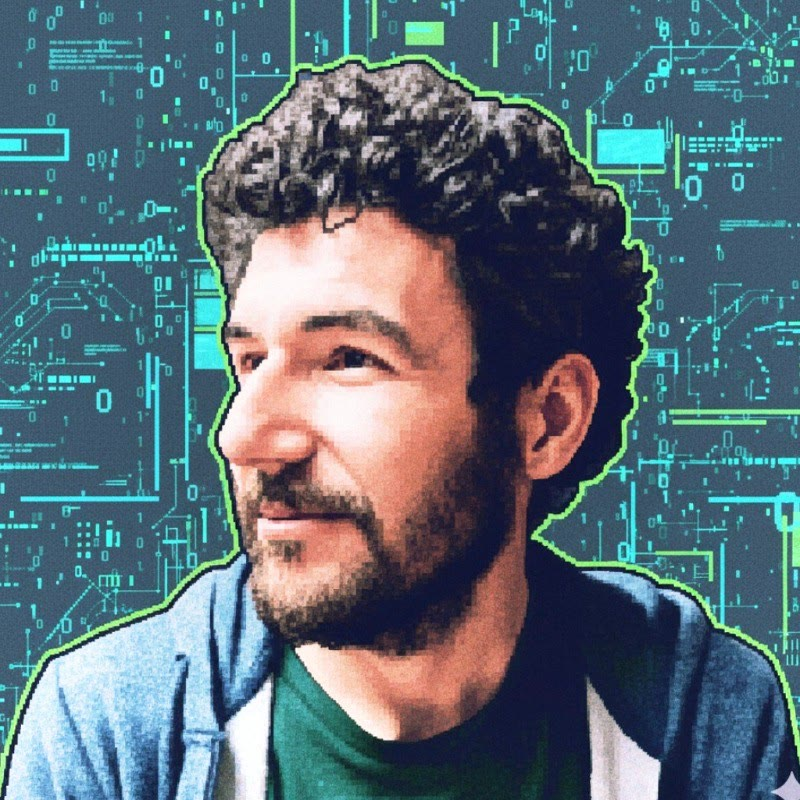
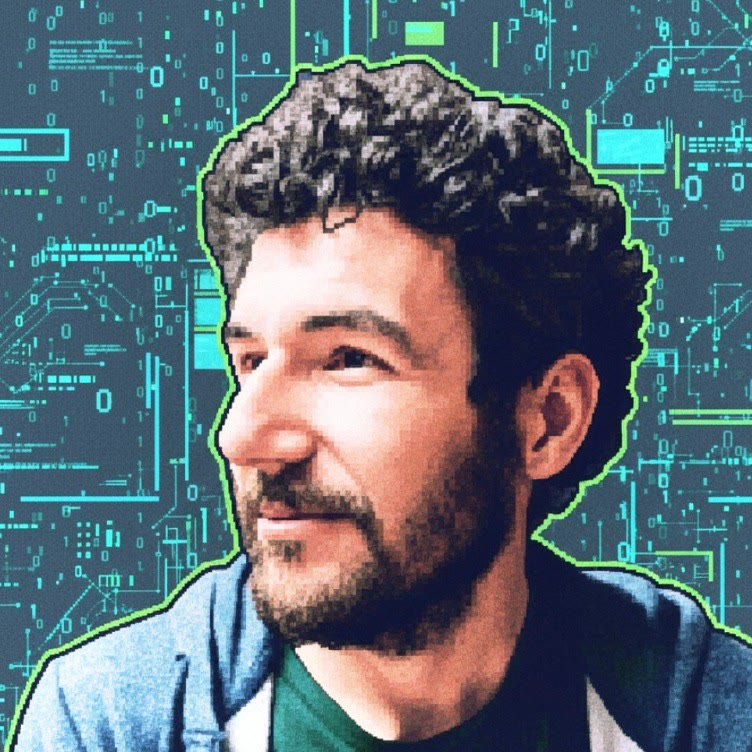
Fix review findings before publishing
- Start the hero even when the pixel font fails to load (fonts.load rejects)
- Resume WebAudio on pointerup/touchend: touch pointerdown is no gesture
- Ignore the iPhone silent switch for the synth (audioSession playback)
- Release held synth notes when the window loses focus
- Cap the #t freeze time at 600 s so a crafted link cannot hang the tab
- Crop the Gemini watermark out of the published avatar file itself
- 44 px touch targets for the language link and PRESS START
- No smooth scrolling with reduced motion; keep focus clear of the HUD

diff --git a/assets/css/site.css b/assets/css/site.css
@@ -9,7 +9,7 @@
   --out:cubic-bezier(.16,1,.3,1);
 }
 *{box-sizing:border-box}
-html{scroll-behavior:smooth}
+html{scroll-behavior:smooth;scroll-padding-bottom:calc(var(--hud-h) + 16px)}
 body{margin:0;background:var(--bg);color:var(--text);font:400 16px/1.6 'Space Grotesk',system-ui,sans-serif;
      -webkit-font-smoothing:antialiased;padding-bottom:calc(var(--hud-h) + env(safe-area-inset-bottom))}
 a{color:inherit}
@@ -26,7 +26,7 @@ a{color:inherit}
         padding:calc(10px + env(safe-area-inset-top)) 14px 0;pointer-events:none}
 .lang{font-size:9px;color:var(--muted);pointer-events:auto}
 .lang b{color:#fff;font-weight:400}
-.lang a{display:inline-block;padding:14px 10px;margin:-14px -10px;color:var(--muted);text-decoration:none}
+.lang a{display:inline-flex;align-items:center;justify-content:center;min-width:44px;min-height:44px;padding:0 10px;margin:-14px -10px;color:var(--muted);text-decoration:none}
 .lang a:hover,.lang a:focus-visible{color:#fff}
 .lang a:focus-visible{outline:2px dashed var(--gold);outline-offset:-6px}
 .hero-copy{position:absolute;z-index:3;left:0;right:0;top:var(--copy-top,38%);text-align:center;padding:0 16px;pointer-events:none}
@@ -34,7 +34,7 @@ a{color:inherit}
 .badge{display:inline-flex;gap:8px;align-items:center;margin-top:14px;font-size:13px;font-weight:700;color:var(--green);
        background:rgba(0,17,0,.82);border:1px solid #142;padding:5px 12px;border-radius:999px}
 .badge i{width:8px;height:8px;border-radius:50%;background:var(--green)}
-.start{display:inline-block;margin-top:18px;font-size:clamp(10px,1.1vw,14px);color:#fff;text-decoration:none;padding:10px 6px;
+.start{display:inline-flex;align-items:center;min-height:44px;margin-top:18px;font-size:clamp(10px,1.1vw,14px);color:#fff;text-decoration:none;padding:10px 14px;
        pointer-events:auto;animation:blink 1.2s steps(1,end) infinite;text-shadow:2px 2px 0 #710}
 .start:focus-visible{outline:2px dashed var(--gold);outline-offset:4px;animation:none}
 @keyframes blink{50%{opacity:0}}
@@ -77,7 +77,7 @@ h2{font-size:clamp(32px,6.4vw,64px);line-height:1.04;margin:0;letter-spacing:-.0
 .avatar{position:relative;width:min(78vw,380px);aspect-ratio:1;margin:0 auto;border:3px solid #99c;background:#112;
         box-shadow:inset 0 0 0 3px #224,8px 8px 0 #224}
 .avatar .shot{position:absolute;inset:6px;overflow:hidden}
-.avatar img,.avatar canvas{position:absolute;left:0;top:0;width:106%;height:106%;display:block}   /* recorta la marca de agua de la esquina */
+.avatar img,.avatar canvas{position:absolute;left:0;top:0;width:100%;height:100%;display:block}
 .avatar canvas{image-rendering:pixelated;transition:opacity .18s linear}
 .js .avatar img{visibility:hidden}
 .avatar figcaption{position:absolute;left:-3px;top:-14px;font-size:8px;background:var(--gold);color:#000;padding:5px 7px}
@@ -201,6 +201,7 @@ h2{font-size:clamp(32px,6.4vw,64px);line-height:1.04;margin:0;letter-spacing:-.0
   .wrap{padding:110px 32px}
 }
 @media (prefers-reduced-motion:reduce){
+  html{scroll-behavior:auto}
   *,*:before,*:after{animation:none!important;transition:none!important}
   .stamp{opacity:1}
 }

diff --git a/assets/js/lab.js b/assets/js/lab.js
@@ -15,6 +15,7 @@
   let ac, master, noise;
   const audio = () => {
     if (!ac) {
+      if (navigator.audioSession) navigator.audioSession.type = 'playback';   // iOS: que suene aunque el iPhone esté en silencio, como el vídeo
       ac = new (window.AudioContext || window.webkitAudioContext)();
       const comp = ac.createDynamicsCompressor(); master = ac.createGain(); master.gain.value = 0.25;
       master.connect(comp).connect(ac.destination);
@@ -23,6 +24,9 @@
     if (ac.state === 'suspended') ac.resume();
     return ac.currentTime;
   };
+  // con el dedo, pointerdown no cuenta como gesto para el audio: se reanuda al levantarlo
+  const unlock = () => { if (ac && ac.state === 'suspended') ac.resume(); };
+  addEventListener('pointerup', unlock, true); addEventListener('touchend', unlock, true);
   const env = (g, w, peak, dur) => { g.gain.setValueAtTime(0.0001, w); g.gain.linearRampToValueAtTime(peak, w + 0.004); g.gain.exponentialRampToValueAtTime(0.0001, w + dur); };
   const osc = (type, f, w, dur, peak, dest = master) => { const o = ac.createOscillator(), g = ac.createGain(); o.type = type; o.frequency.setValueAtTime(f, w); env(g, w, peak, dur); o.connect(g).connect(dest); o.start(w); o.stop(w + dur + 0.05); return o; };
   const burst = (w, dur, peak, type, freq, q = 1) => { const s = ac.createBufferSource(), f = ac.createBiquadFilter(), g = ac.createGain(); s.buffer = noise; f.type = type; f.frequency.value = freq; f.Q.value = q; env(g, w, peak, dur); s.connect(f).connect(g).connect(master); s.start(w); s.stop(w + dur + 0.05); };
@@ -156,6 +160,7 @@
     const k = keysEl.querySelector(`[data-m="${60 + i}"]`); if (k) noteOn(60 + i, k);
   });
   addEventListener('keyup', (e) => { const i = KEYMAP.indexOf(e.key.toLowerCase()); if (i >= 0) noteOff(60 + i); });
+  addEventListener('blur', () => [...voices.keys()].forEach(noteOff));   // Cmd+Tab con una tecla pulsada: sin keyup, la nota quedaría sonando
 
   // ---------- ukelele: Karplus-Strong (cuerda pulsada física, 1983) ----------
   const OPEN = [67, 60, 64, 69];                                     // afinación re-entrante G C E A

diff --git a/assets/js/hero.js b/assets/js/hero.js
@@ -7,6 +7,7 @@
   const reduce = matchMedia('(prefers-reduced-motion: reduce)').matches;
   const qt = new URLSearchParams(location.search).get('t') ?? new URLSearchParams(location.hash.slice(1)).get('t');   // ?t=2.5 o #t=2.5
   const frozen = qt !== null && qt !== '' && !isNaN(+qt);              // ?t=2.5 → frame exacto para QA
+  const freezeAt = frozen ? Math.min(Math.max(+qt, 0), 600) : 0;      // tope: un #t enorme no debe colgar la pestaña
   const $ = (id) => document.getElementById(id);
   const hero = $('hero'), hud = $('hud'), copyEl = $('copy');
   const sky = $('sky'), sctx = sky.getContext('2d');
@@ -330,11 +331,11 @@
   }).catch(showPhoto);
 
   // ---------- arranque ----------
-  const fontReady = Promise.race([document.fonts.load('16px "Press Start 2P"'), new Promise((r) => setTimeout(r, 1500))]);
+  const fontReady = Promise.race([document.fonts.load('16px "Press Start 2P"').catch(() => {}), new Promise((r) => setTimeout(r, 1500))]);   // si la fuente falla, arranca con la de respaldo
   fontReady.then(() => {
     layout(); ready = true;
-    if (reduce) still(3); else if (frozen) still(+qt); else start();
-    new ResizeObserver(() => { layout(); if (reduce) still(3); else if (frozen) still(+qt); }).observe(hero);
+    if (reduce) still(3); else if (frozen) still(freezeAt); else start();
+    new ResizeObserver(() => { layout(); if (reduce) still(3); else if (frozen) still(freezeAt); }).observe(hero);
     new IntersectionObserver(([e]) => (e.isIntersecting ? start() : stop())).observe(hero);
   });
 })();

diff --git a/_layouts/landing.html b/_layouts/landing.html
@@ -58,7 +58,7 @@
         </div>
       </div>
       <figure class="avatar" id="avatar">
-        <div class="shot"><img id="avatarImg" src="/assets/img/avatar.jpg" alt="{{ t.intro.avatar_alt }}" width="800" height="800" decoding="async">
+        <div class="shot"><img id="avatarImg" src="/assets/img/avatar.jpg" alt="{{ t.intro.avatar_alt }}" width="752" height="752" decoding="async">
         <canvas id="avatarFx" width="240" height="240" aria-hidden="true"></canvas></div>
         <figcaption class="px">{{ t.intro.avatar_tag }}</figcaption>
       </figure>
